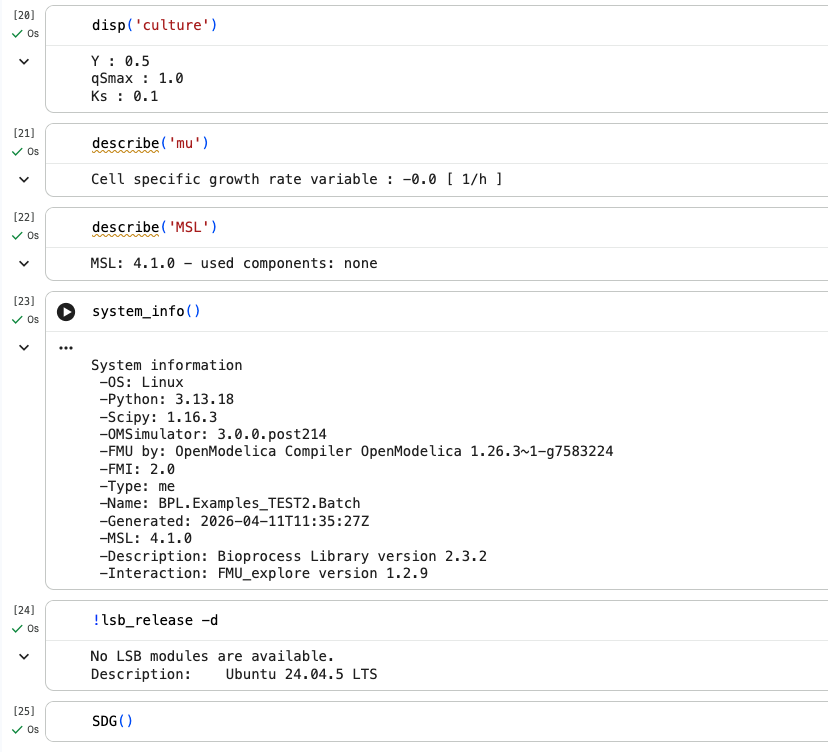
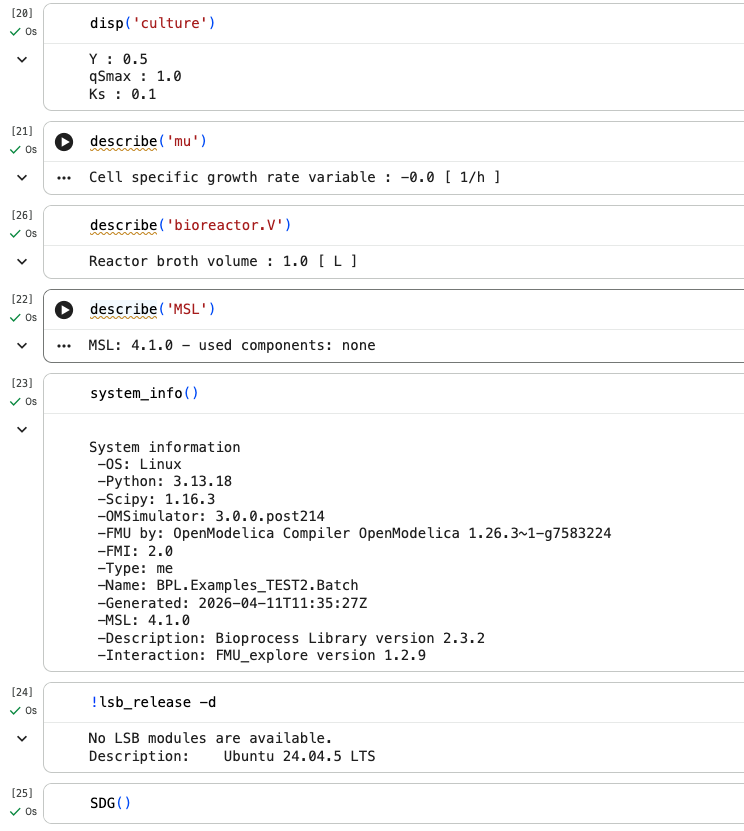
Bring in describe_parts to descdribe in oms

diff --git a/BPL_TEST2_Batch_oms_explore.py b/BPL_TEST2_Batch_oms_explore.py
@@ -6,6 +6,7 @@
 # 2026-10-07 - Diagrams modified for DyMat
 # 2026-10-07 - Rudimentary function describe()
 # 2026-10-16 - Added clean-up section at the end
+# 2026-11-24 - Bring in describe_parts() to descxribe()
 #------------------------------------------------------------------------------------------------------------------
 
 #------------------------------------------------------------------------------------------------------------------
@@ -79,6 +80,9 @@ def describe(name, decimals=3):
 
     if name == 'culture':
         print('Simplified text book model - only substrate S and cell concentration X')
+        
+    elif name in ['parts']:
+        describe_parts(component_list_minimum)
 
     elif name in ['MSL']:
         describe_MSL()
